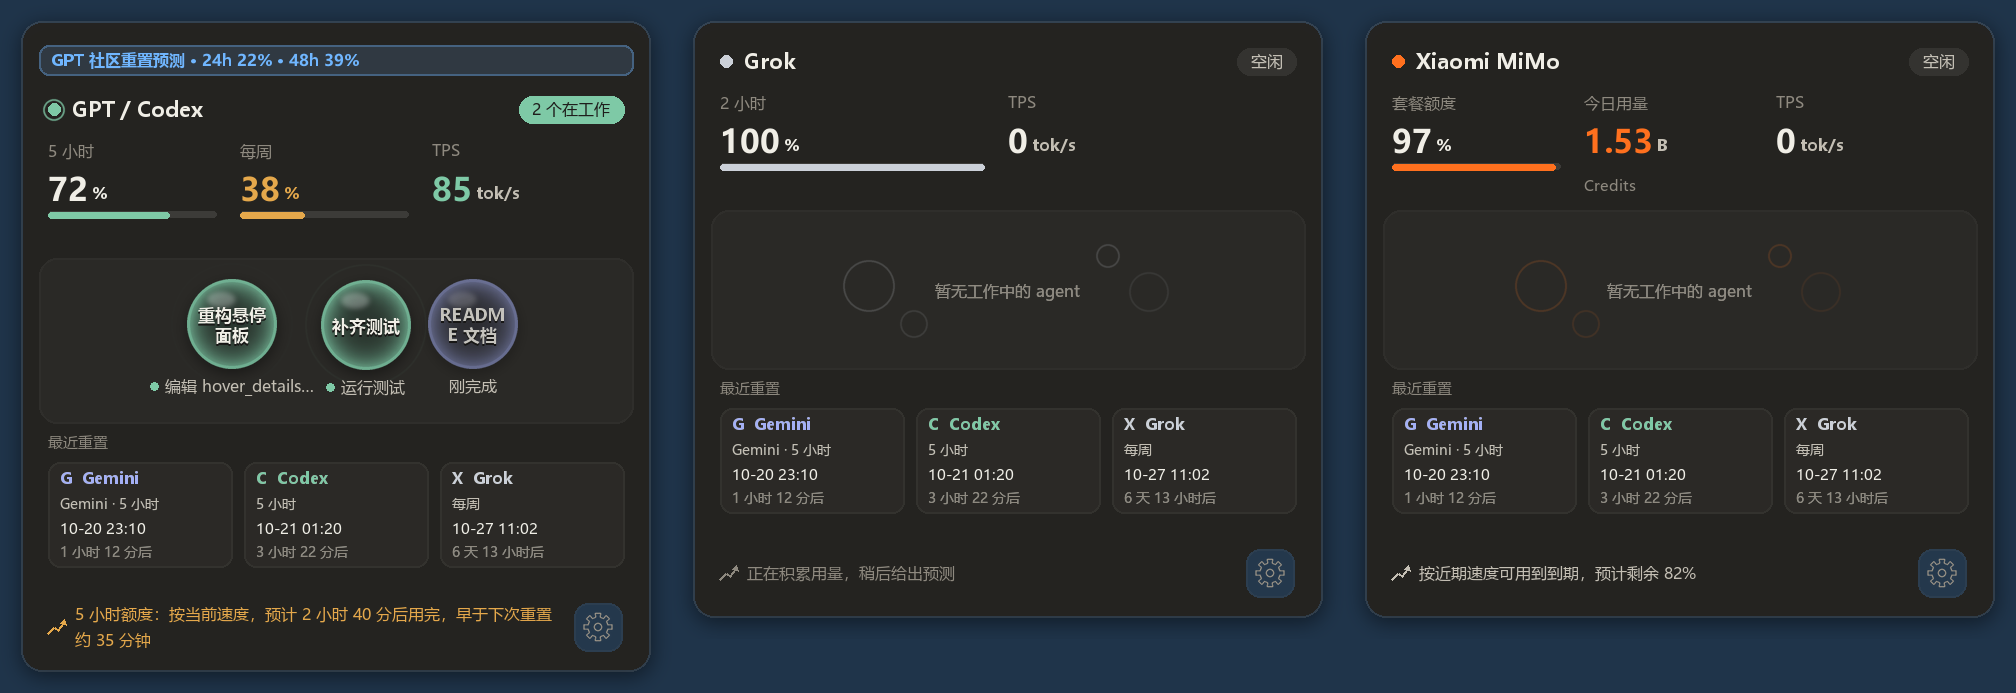
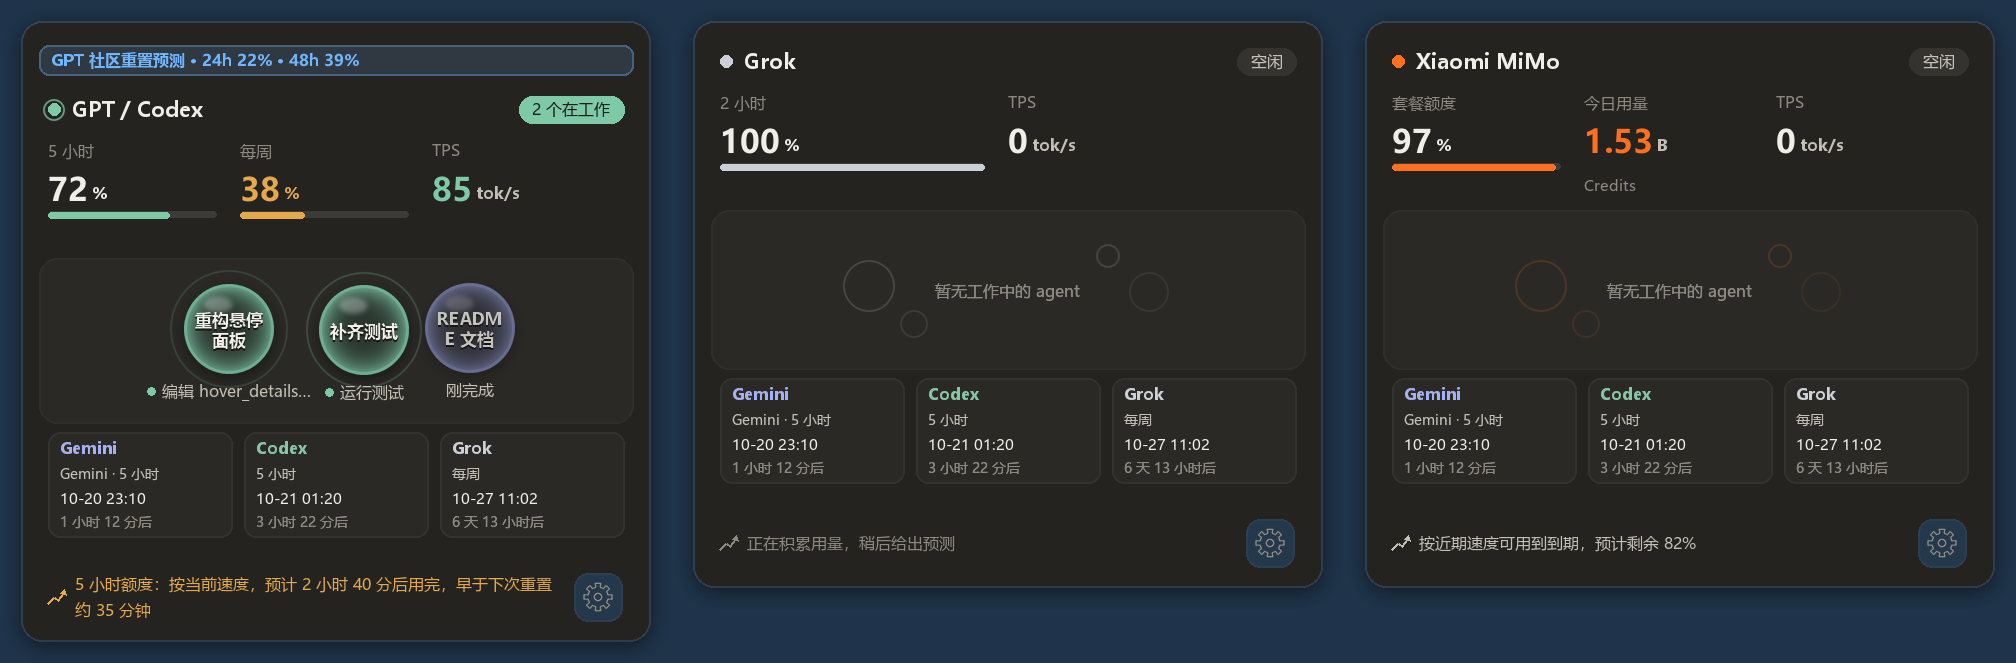
Compact reset columns and remove heading and letter prefixes

diff --git a/agent_panel.py b/agent_panel.py
@@ -103,7 +103,7 @@ class PanelModel:
 
 METER_TOP = PAD + 32        # Top of the quota / TPS row.
 FOOTER = 54                 # Two forecast lines plus a separate settings button.
-RESET_HEIGHT = 108          # Upcoming resets: three provider columns, fixed height.
+RESET_HEIGHT = 88           # Three compact provider columns, without a section heading.
 GEAR_RADIUS = 9.0
 GEAR_HIT = 17.0
 
@@ -915,13 +915,12 @@ def background(header: tuple, field_h: int, scale: float) -> Image.Image:
                            fill=(240, 238, 230, 7), outline=(240, 238, 230, 14), width=max(1, round(s)))
     if empty:
         draw.text((px(WIDTH / 2), px(top + field_h / 2)), "暂无工作中的 agent", font=ui_font(px(11)), fill=MUTED_TEXT, anchor="mm")
-    reset_y = top + field_h + 12
-    draw.text((px(PAD), px(reset_y)), "最近重置", font=ui_font(px(10)), fill=MUTED_TEXT, anchor="lt")
+    reset_y = top + field_h + 10
     gap = 8
     column_w = (WIDTH - 2 * PAD - 2 * gap) / 3
     for index in range(3):
         x = PAD + index * (column_w + gap)
-        y = reset_y + 18
+        y = reset_y
         draw.rounded_rectangle((px(x), px(y), px(x + column_w), px(y + 70)), radius=px(8),
                                fill=(240, 238, 230, 8), outline=(240, 238, 230, 18), width=max(1, round(s)))
         if index >= len(resets):
@@ -929,7 +928,7 @@ def background(header: tuple, field_h: int, scale: float) -> Image.Image:
             continue
         item = resets[index]
         face = ui_font(px(11), "bold")
-        name = forecast_text(f"{item.letter}  {item.name}", px(column_w - 16), face, draw)
+        name = forecast_text(item.name, px(column_w - 16), face, draw)
         draw.text((px(x + 8), px(y + 6)), name, font=face, fill=accent(item.letter), anchor="lt")
         face = ui_font(px(9.5))
         window = forecast_text(item.window, px(column_w - 16), face, draw)
